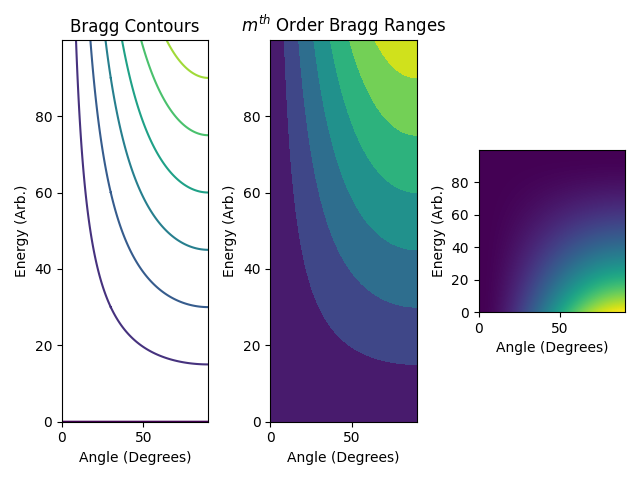
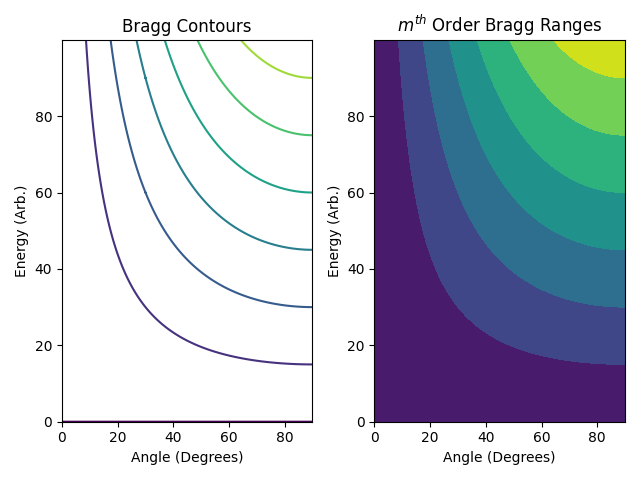
Fourier Cleaning Algorithm

diff --git a/X-Ray/27_01_2023_Session_8/Cu_source_Fourier.py b/X-Ray/27_01_2023_Session_8/Cu_source_Fourier.py
@@ -1,0 +1,36 @@
+import numpy as np
+import matplotlib.pyplot as plt
+import pandas as pd
+import mplhep as hep
+hep.style.use("CMS")
+
+"""
+Fourier Cleaning Algorithm
+"""
+
+data = pd.read_csv(r"X-Ray\Data\28-01-2023\Cu No Filter Energy-Angle run.csv",skiprows=0)
+angle = data['Angle']
+counts = data['Counts']
+
+sin_angle = np.sin(angle * np.pi / 180)
+
+dt = 0.001
+n = len(sin_angle)
+fft = np.fft.fft(counts,n)
+psd = fft * np.conj(fft)/n
+freq = (1/(dt*n)) * np.arange(n) #frequency array
+idxs_half = np.arange(1, np.floor(n/2), dtype=np.int32)
+threshold = 20
+psd_idxs = psd > threshold #array of 0 and 1
+psd_clean = psd * psd_idxs #zero out all the unnecessary powers
+fhat_clean = psd_idxs * fft #used to retrieve the signal
+
+signal_filtered = np.fft.ifft(fhat_clean) #inverse fourier transform
+
+
+fig, ax = plt.subplots(1,3)
+ax[0].plot(sin_angle,counts)
+ax[1].plot(sin_angle,signal_filtered)
+ax[2].plot(sin_angle,np.abs(signal_filtered-counts))
+plt.show()
+

diff --git a/X-Ray/27_01_2023_Session_8/energy_angle_contour.py b/X-Ray/27_01_2023_Session_8/energy_angle_contour.py
@@ -15,7 +15,7 @@ sin_angle = np.sin(angle * np.pi / 180)
 A_mesh, E_mesh = np.meshgrid(sin_angle,energy)
 Z = E_mesh * sin_angle
 
-fig, ax = plt.subplots(1,3)
+fig, ax = plt.subplots(1,2)
 
 ax[0].contour(Z,extent=(min(angle),max(angle),min(energy),max(energy)),label="Bragg Contour")
 ax[1].contourf(Z,extent=(min(angle),max(angle),min(energy),max(energy)),label=r"m^{th} Bragg Order Ranges")
